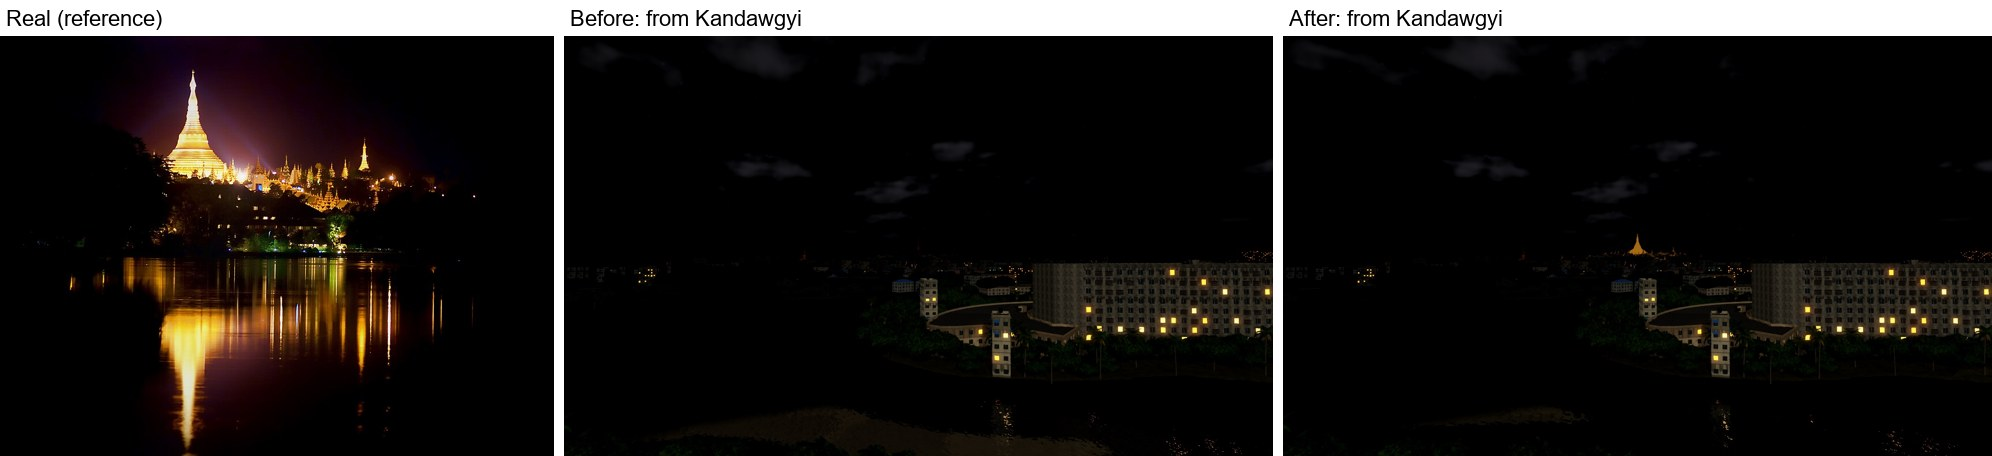
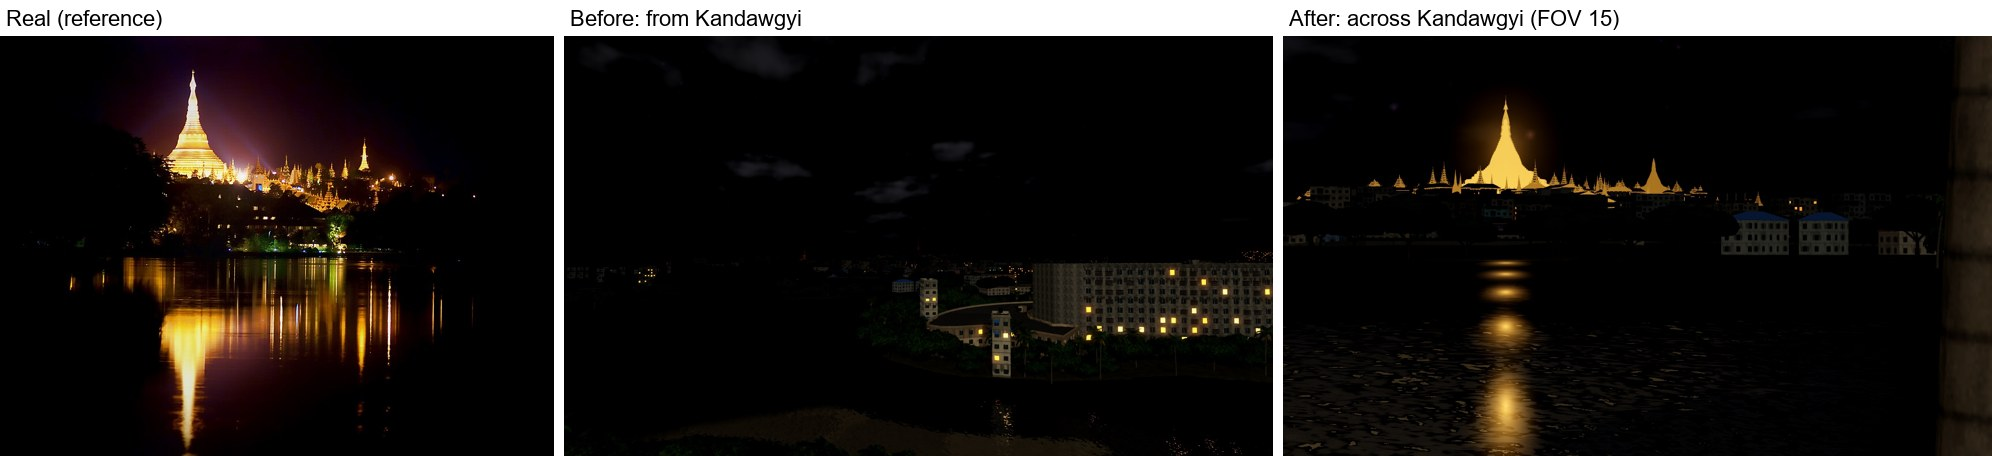
City Legends: Shwedagon night round 2 - tier banding kept (near glow 0.16, ramp from 900), far glow x12 + halo sprite so it is the brightest thing from Kandawgyi, small gold stupas in the Persistent FarVisible, gold reflection streak on the lake at the shore; panels redone (ref framing, FOV 15)

diff --git a/Games/CityLegends/CLAUDE.md b/Games/CityLegends/CLAUDE.md
@@ -107,7 +107,7 @@ Traffic uses the "lite" runtime meshes first. The owner thinks the procedural ca
 - **Repo and Studio scripts must match before a publish (owner, 26 Nov 2026).** The "tap outside closes the big map" fix (commit 1959dc22, 21 Nov) sat in the repo for 5 days but was never copied into Studio, so the owner still couldn't close the map that way. Before telling the owner it's safe to publish, compare every script under Client / Server / Shared in Studio with `src/` (same length after removing CR; list any that differ) and install or explain each difference. On 26 Nov the only unexplained one was `client/CarSkin` (Studio 158,849 chars, repo 159,286; the repo has the 21 Nov plate-back change), so check it before the next publish.
 
 - **Driving effects (owner, 2026-11-26; vault `City Legends/2026-11-26 Driving effects - tyre marks, road glow, backfire light.md`):** tyre marks last `SkidLife` 10 s (phones 8, low-end 6), full strength for half, then fade; cap `SkidMax` 240 (phones 120, low-end 60) in `Driving.skidBudget`; 0.02 thick, lifted `SKID_LIFT` 0.07 along the road normal; also on hard braking and launches. Tail glow: SpotLight `TailRoadGlow` behind the lamps (range 14, angle 90, 0.35 lit / 1.2 braking x `CarLamps.night()`), own car only, off in low-end. Backfire flash: the exhaust PointLight is orange, range 12, peak min(6, 4.5 x strength), ~0.1 s a pop; lift pops from 55% revs, 2-3 pops on a launch. Test the Flame Tune with car attribute `Parts` = `catalyst=cat_flame` (server).
-- **Shwedagon at night (owner, 2026-11-27: "shiny & glossy & bright"; vault `City Legends/2026-11-27 Shwedagon night floodlighting.md`):** gold meshes tagged `NightGold` (+ attribute `NightSA`) get a copy of a `ReplicatedStorage.NightGold` SurfaceAppearance (metal 1, rough 0.16, emissive gold) from `WorldFx.setNightGold` at night only; the emissive ramps by camera distance to the template's `FarGlow` (haze). Floods in `Landmarks.Shwedagon.Night` (14 shadowless SpotLights, `LODLight` + `DayOff`, `LodRange` 900) + hti sparkle. Tool `tools/yangon/ShwedagonNight.luau`. Other glowing landmarks can reuse the tag with their own template.
+- **Shwedagon at night (owner, 2026-11-27: "shiny & glossy & bright"; vault `City Legends/2026-11-27 Shwedagon night floodlighting.md`):** gold meshes tagged `NightGold` (+ attribute `NightSA`) get a copy of a `ReplicatedStorage.NightGold` SurfaceAppearance (metal 1, rough 0.16, emissive gold) from `WorldFx.setNightGold` at night only; the emissive ramps by camera distance to the template's `FarGlow` (haze). Floods in `Landmarks.Shwedagon.Night` (14 shadowless SpotLights, `LODLight` + `DayOff`, `LodRange` 900) + hti sparkle. Round 2 (28 Nov): near glow 0.16 (keeps the tier bands), far x12 at 3,500 studs; halo BillboardGui `NightHalo` on `FarVisible.HaloAnchor` (also tag NightGold, faded in by distance); the anchor's attribute `Reflect` lays a client streak on the lake (`Camera.NightReflection`) when the camera is at a shore; the gold small stupas live in the Persistent `FarVisible`. Tool `tools/yangon/ShwedagonNight.luau`. Other glowing landmarks can reuse the tag with their own template.
 - **Street sounds (owner, 2026-11-27/28; vault `City Legends/2026-11-27 Traffic pass-by and footstep sounds.md`):** `client/TrafficSounds.lua` (called from `Traffic.update`; reads `npc.gapNow / gapPlayer / gapAlign` that Traffic writes after `lookAheadGap`): 4 pooled pass-by voices (roar `StreetRoar` + `Engine` hum, Doppler, 2 on low-end) on the nearest moving cars, honks on events only (blocked by the player 1.4 s, driving at it, cut-ins, racer lane moves, rare taps at crossers / queues; per car 6-8 s, at most 2 per 6 s, 150 studs; workspace attribute `TestHonkLog` logs them). `client/PedSounds.lua` (started by `PedHits.start`): footsteps for the ONE walker nearest the camera (40 studs) on `w.phase` foot plants, ground by ray; `PedSounds.hit` for car hits (thud by speed, built-in `oof.ogg` / `ouch.ogg`, tumble). Sounds made by `tools/street_sounds/cl_street.py` (ids `tools/street_sounds/ids.json`, keys in `ConfigSounds`). Flat openables / windows: volumes from measured file levels (~-22 dBFS per event, roll-off 10 / 45). Never start a Luau line with `(` after a call line (ambiguous syntax stops the module).
 - **Street props on main roads (2026-11-27, TorqX gap; vault `City Legends/2026-11-27 Street props - main roads.md`):** `client/YangonRoadside` builds YBS stops at the real OSM stops off P1 (`YangonRoadsideData.Stops` from `roadside_data.py`: S shelter = kit `busd` + `bin` + a 2-leg ad panel, P = `busp`; whole strip on one pavement level; poles keep off via `stopReg`) and manhole covers on every main-road lane, P1 too (`MH_EVERY` 230, off lane ends / signalled junctions, flat road box only, top 0.18 over it). Shelter ads: invisible kit piece `SAD_busd` (`YangonStreetKit.shelterAd()`, tag `ShelterAd`, faces 0.08 in front of the ad plates) gets portrait SurfaceGui ads (`SHELTER_ADS`, fictional, Burmese no kinzi) lit at night by the `RoadsideAd` switch.
 - **Calm driving HUD + noon light (owner, 2026-11-27: "their one look polished", TorqX; vault `City Legends/2026-11-27 Noon light and calm driving HUD.md`):** `UI.setSpeed` on every device: over 8 mph (back under 4) hides TopBars + `CALM` (GoalTracker, RewardsPill, DailyCard, SideButtons) + `CALM_DEEP` (Cash2xBadge, CarStrip) + the keys button, fades the action pill; everything returns as it was (`calmWant` keeps other code's wishes; 0.6 s with no speed = out of the car). New HUD panels: add them to `CALM` unless the player must act on them. Noon key (13 h) is muted / warm / hazy (haze 2.3; 2.8 read as fog).

diff --git a/City Legends/2026-11-27 Shwedagon night floodlighting.md b/City Legends/2026-11-27 Shwedagon night floodlighting.md
@@ -37,7 +37,17 @@ Before: dull bronze metal under the night ambient, almost invisible from Kandawg
 - Hti height: the model's hti tiers are at ~265-285 studs over the platform (the collision cylinder ends at ~262).
 - Plinth lamps: the 64 plinth stupas stand at r ~142; a lamp at r 140 stood inside one. Check visual mesh boxes, not only collision, before placing fixtures (visual meshes have CanQuery off, so `GetPartsInPart` misses them).
 
+## Round 2 (28 Nov, coordinator review)
+Review of round 1: up close "one flat blown-out yellow blob" (the tiers' banding lost); from Kandawgyi "a tiny faint cone", nothing like the ref; no lake reflection. The pictures above are round 2 (the Kandawgyi one now matches the ref's framing: east shore of the lake, telephoto FOV 15).
+- **Tier banding kept:** near emissive 0.3 -> 0.16 (Stupa) / 0.2 -> 0.08 (Shrine), the distance ramp starts at 900 studs (was 500), plinth floods 1.4 -> 0.9. Terraces, turban rings and the bell rim now read as bright bands with darker bands between, with gloss highlights.
+- **Far: the brightest thing in the view:** `FarGlow` 3 -> 12 with a paler tint (255,226,150) for the main stupa, 1 -> 4 for the rest; the gold small stupas (`PlinthStupa`, `CardinalStupa`, `PStupa`, `Naungdawgyi`) moved from `Visual` into the Persistent `FarVisible` (attribute `MovedFrom`; `undo()` moves them back) so the whole hill of small stupas glows from across the city (they streamed out past ~4,000 studs).
+- **Halo:** `FarVisible.HaloAnchor` (invisible, 140 over the platform) carries BillboardGui `NightHalo` (tag NightGold, the lamp-glow sprite, 480 x 620 studs, Brightness 4, not AlwaysOnTop so the stupa hides its middle); WorldFx fades it in from 900 to 3,500 studs (`HaloAlpha` 0.9) and grows it x1.6 (`FarScale`). Day: off.
+- **Kandawgyi reflection:** the anchor's attribute `Reflect` makes WorldFx lay a client-only streak (`Camera.NightReflection`, 6 pieces) on the water along the line of sight whenever the camera stands at a shore (terrain Water starting within 220 studs toward the stupa, camera under 160 over the water): pieces widen away from the viewer, each wears the soft lamp-glow sprite and overlaps its neighbour, each 0.1 higher than the last (no flicker). 18 short raycasts twice a second, only at night and only near water. Day: hidden.
+- **High masts: not built.** The blueprint only says "3 high masts" (trustees' inventory) with no positions; the real-only rule means no made-up spots.
+- Checks: day (PreviewHour 13) 0 SAs, 0 lights, halo off, no streak; night again 244 SAs, halo on, streak on. FPS (Studio PC): near 58.7 with 15 lights on; road 50.3 (56.7 in round 1 there; traffic and people vary between runs, nothing of this runs at the road spot except the emissive ramp). Studio v2429.
+- Lessons: a line starting with `(` after a statement is a Luau "ambiguous syntax" error that stopped the whole client (Main -> Driving -> WorldFx): assign to a local instead. A radial sprite stretched over 1,000 studs of water reads as one round blob; hard-edged bands read as a road arrow; overlapping soft sprites read as a reflection. A SurfaceGui on a Top face: canvas X runs along the part's Z (length), canvas Y across (tested with coloured frames). Atmosphere haze eats emissive gold at 4,000+ studs: ramp it by distance (x12 there) instead of one strong value that blows out up close.
+
 ## Not done / next
 - Not tested on a phone or in low-end mode (SurfaceAppearance emissive on the lowest graphics level not checked).
-- No Kandawgyi water reflection of the stupa (the real photo's gold streak on the lake).
-- The 3 high masts of the blueprint are not built.
+- The 3 high masts of the blueprint are not built (no real positions found).
+- The reflection only shows where terrain Water lies within 220 studs of the camera toward the stupa (Kandawgyi's shores; Inya too if in line).
